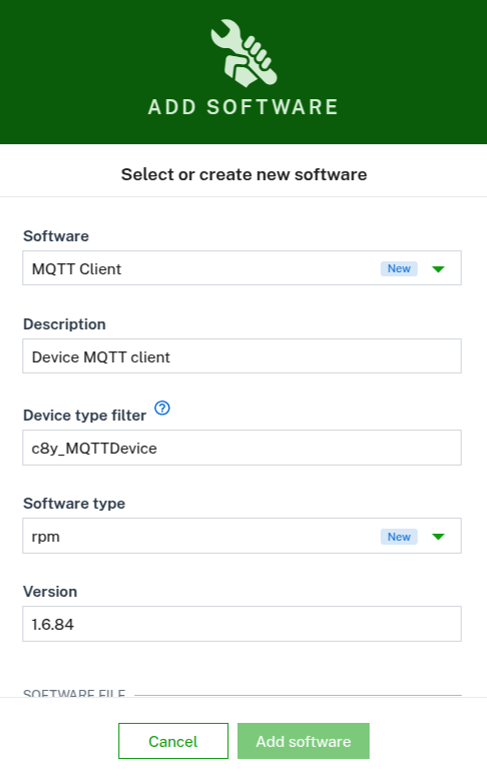
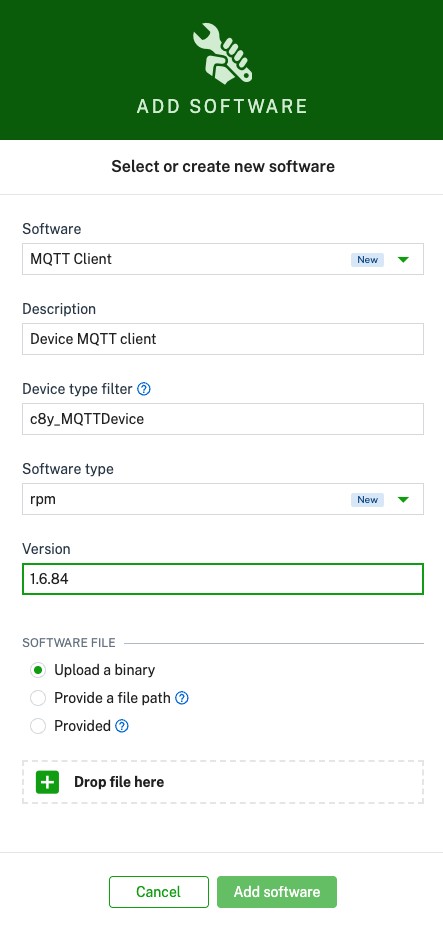
[DM-4788]: Added user docs and fragment lib update for the new provided option for files in software and firmware repository items.

diff --git a/content/device-management-application/managing-device-data-bundle/managing-firmware.md b/content/device-management-application/managing-device-data-bundle/managing-firmware.md
@@ -41,8 +41,11 @@ The list of versions and patches shows the version name and the name of the firm
 	* to add a new firmware, enter a name for the firmware (and confirm it by clicking **Create new** in the resulting window), add a description and its version (all required).
 	* to add a new version, select the firmware for which you want to add a new version from the dropdown list in the **Firmware** field and enter a version.
 3. Optionally, you can define the device type filter when adding a new firmware.
-3. Either upload a binary from the file system or specify a URL from where the firmware can be downloaded.
-4. Click **Save**.
+4. Choose one of the following options to define the patch binary:
+   - **Upload a binary** from your file system.
+   - **Provide a file path (URL)** to download the binary from.
+   - **Mark as Provided** – select this option if the device is expected to resolve the binary itself. No file or URL will be defined, and a `$PROVIDED` placeholder is stored.
+5. Click **Save**.
 
 ![Add firmware](/images/users-guide/DeviceManagement/devmgmt-firmware-add.png)
 
@@ -55,9 +58,12 @@ If you click **Add firmware** from within the details of a specific firmware, th
 1. In the **Firmware repository** page, click **Add firmware patch** at the right of the top menu bar.
 2. In the resulting dialog box, select the firmware, for which you want to add a patch, from the dropdown list in the **Firmware** field.
 3. in the **Version** field, select the version, for which you want to add a patch.  
-3. In the **Patch** field, enter a name for the patch.
-3. Either upload a binary from the file system or specify a URL from where the firmware can be downloaded.
-4. Click **Save**.
+4. In the **Patch** field, enter a name for the patch.
+5. Choose one of the following options to define the patch binary:
+   - **Upload a binary** from your file system.
+   - **Provide a file path (URL)** to download the binary from.
+   - **Mark as Provided** – select this option if the device is expected to resolve the binary itself. No file or URL will be defined, and a `$PROVIDED` placeholder is stored.
+6. Click **Save**.
 
 As with adding versions, if you click **Add firmware patch** from within the details of a specific firmware, the dialog box looks slightly different as the firmware is already selected.
 

diff --git a/content/device-integration/fragment-library-bundle/software.md b/content/device-integration/fragment-library-bundle/software.md
@@ -27,11 +27,19 @@ A software package list entry must contain the following properties:
 |----|----|----|
 | name | Yes | The name of the software|
 | version | Yes | A version identifier of the software|
-| url | No | A URL pointing to the location where the software file was obtained from|
+| url | No | A URL pointing to the location where the software file was obtained from. If the value is $PROVIDED, the device must resolve the binary on its own|
 | softwareType | No | An arbitrary string for organizing software artifacts|
 
 The name and the version are used to identify the package. Already mentioned `c8y_SupportedSoftwareTypes` fragment
 restricts possible software types that can be installed on the device.
+
+If the `url` is set to `$PROVIDED`, no file is uploaded or linked from the platform. In this case, the device is fully responsible for resolving the correct binary. If the device cannot resolve the binary, the operation must be marked as **FAILED**.
+
+**SmartREST example**
+
+For example, to mark a software as provided:
+
+`528,DeviceSerial,example-software,1.0.0,$PROVIDED,install`
 
 #### Legacy Software Management {#legacy-software-management}
 

diff --git a/content/device-integration/fragment-library-bundle/firmware.md b/content/device-integration/fragment-library-bundle/firmware.md
@@ -41,6 +41,18 @@ The 115 static template is available for devices to communicate their currently 
 
 `115,ubuntu core,20.04.3,http://test.com`
 
+### Using `$PROVIDED` firmware URLs {#provided-firmware}
+
+If the `url` is set to `$PROVIDED`, no firmware file is uploaded or linked from the platform. In this case, the device is fully responsible for resolving the correct binary. If the device cannot resolve the binary, the operation must be marked as **FAILED**.
+
+This option is useful when the device can retrieve the correct firmware file dynamically based on its environment, architecture, or internal logic.
+
+**SmartREST example**
+
+To mark a firmware as provided:
+
+`515,DeviceSerial,ubuntu core,20.04.3,$PROVIDED`
+
 ### Installing a firmware image {#installing-a-firmware-image}
 
 When a user selects a complete firmware image for installation, an operation with a similar ```c8y_Firmware``` fragment as found in the device managed object is created. This operation should be considered as the desired state that should be achieved by the device.

diff --git a/content/device-management-application/managing-device-data-bundle/managing-software.md b/content/device-management-application/managing-device-data-bundle/managing-software.md
@@ -49,7 +49,10 @@ The versions are ordered by their creation time (descending).
 	* to add a new version, select the software for which you want to add a new version from the dropdown list in the **Software** field and enter a version.
 3. Optionally, you can define the device type filter when adding a new software.
 4. Define the software type. It will make the software installable only on devices that have declared to support the particular software type.
-5. Either upload a binary from the file system or specify a URL from where the software can be downloaded.
+5. Choose one of the following options to define the binary:
+   - **Upload a binary** from your file system.
+   - **Provide a file path (URL)** to download the binary from.
+   - **Mark as Provided** – select this option if the device is expected to resolve the binary itself. No file or URL will be defined, and a `$PROVIDED` placeholder is stored.
 6. Click **Add software**.
 
 ![Add software](/images/users-guide/DeviceManagement/devmgmt-software-add.png)
